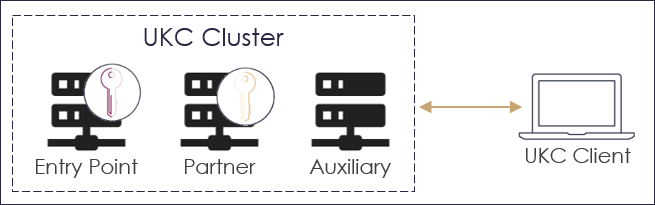
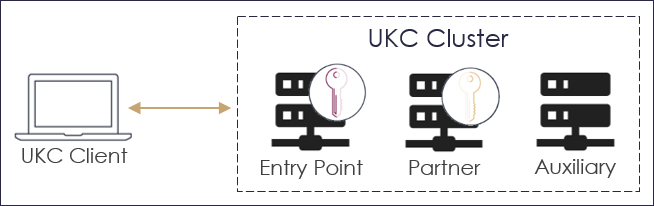
change node order client->ep

diff --git a/webapp/src/main/resources/templates/home.html b/webapp/src/main/resources/templates/home.html
@@ -21,21 +21,21 @@
     }
 
     #ep_tooltip {
-      left: 18px;
+      left: 240px;
     }
 
     #partner_tooltip {
       width: 125px;
-      left: 165px;
+      left: 389px;
     }
 
     #aux_tooltip {
-      left: 293px;
+      left: 517px;
       width: 116px;
     }
 
     #client_tooltip {
-      left: 500px;
+      left: 5px;
     }
   </style>
 </head>
